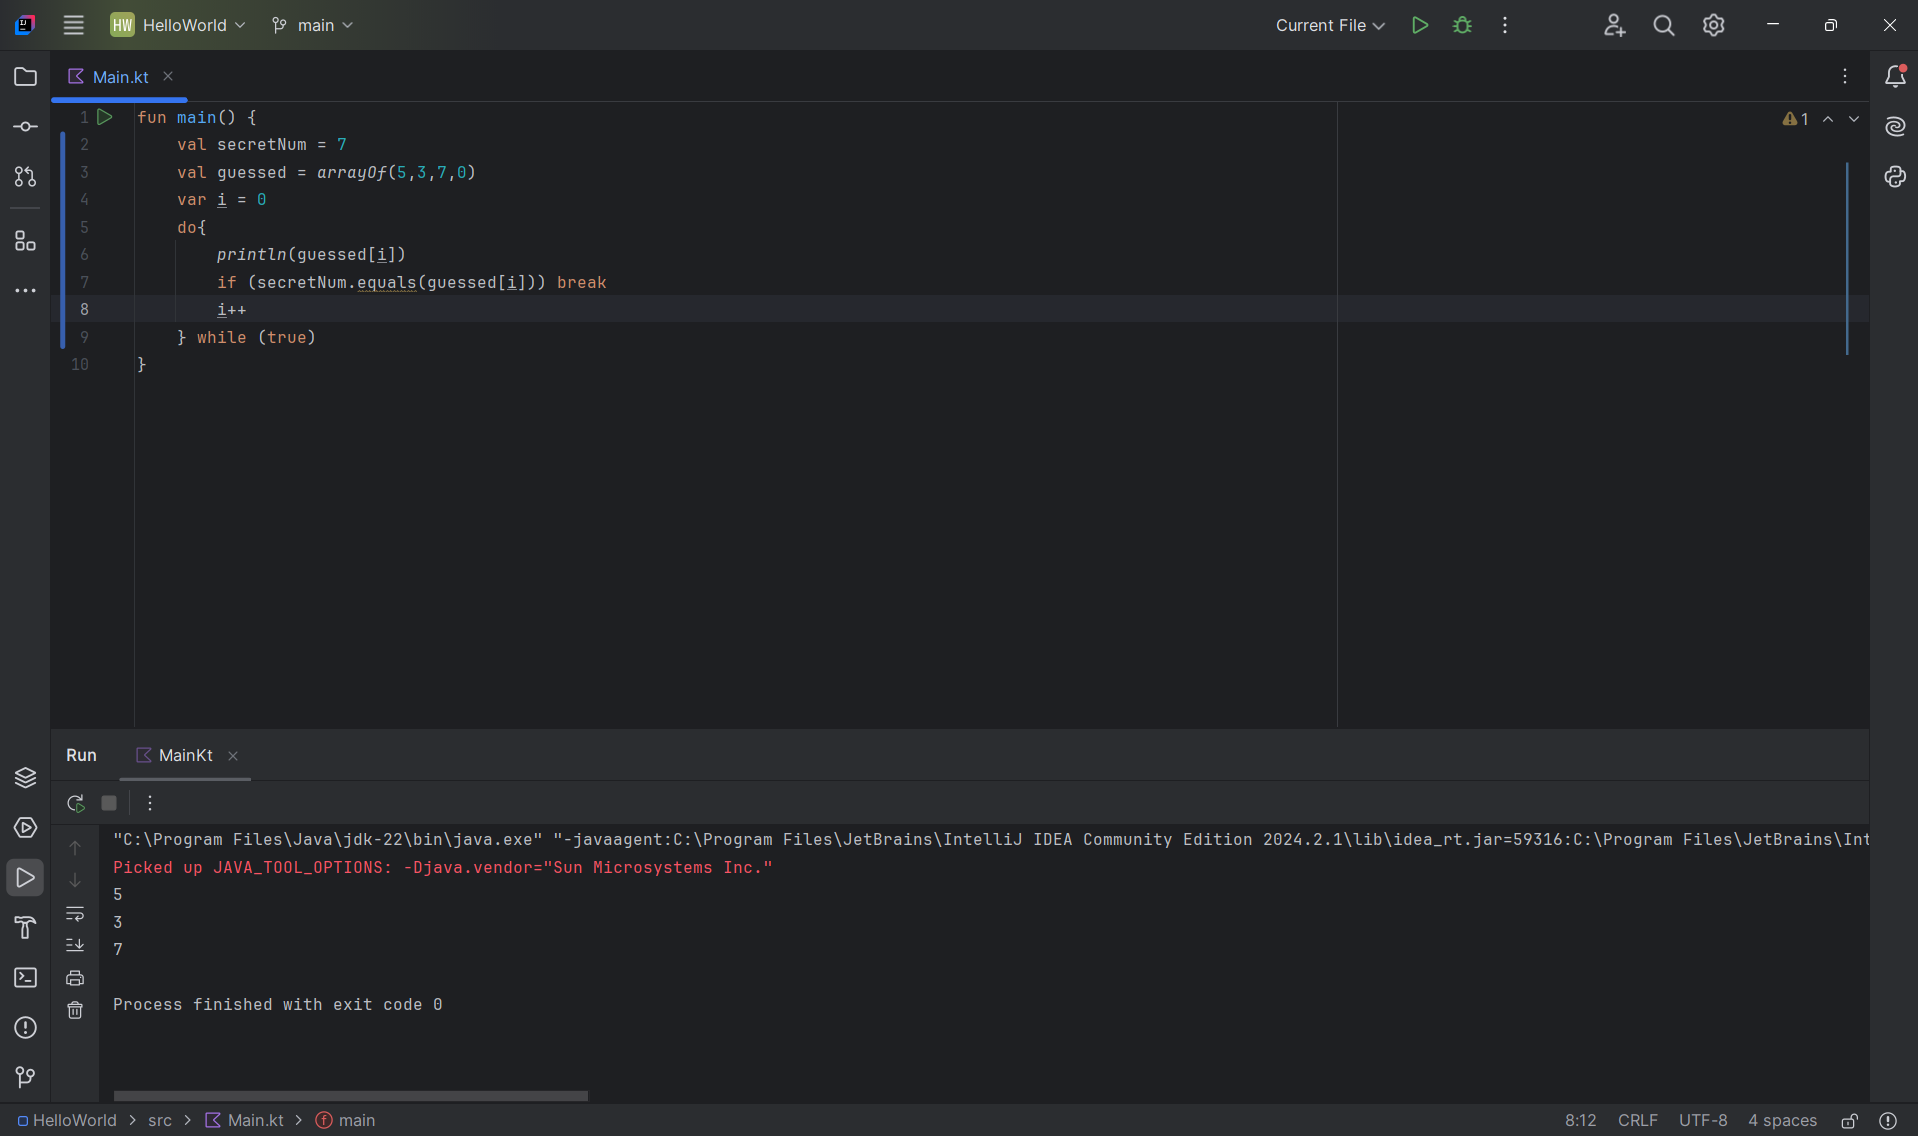
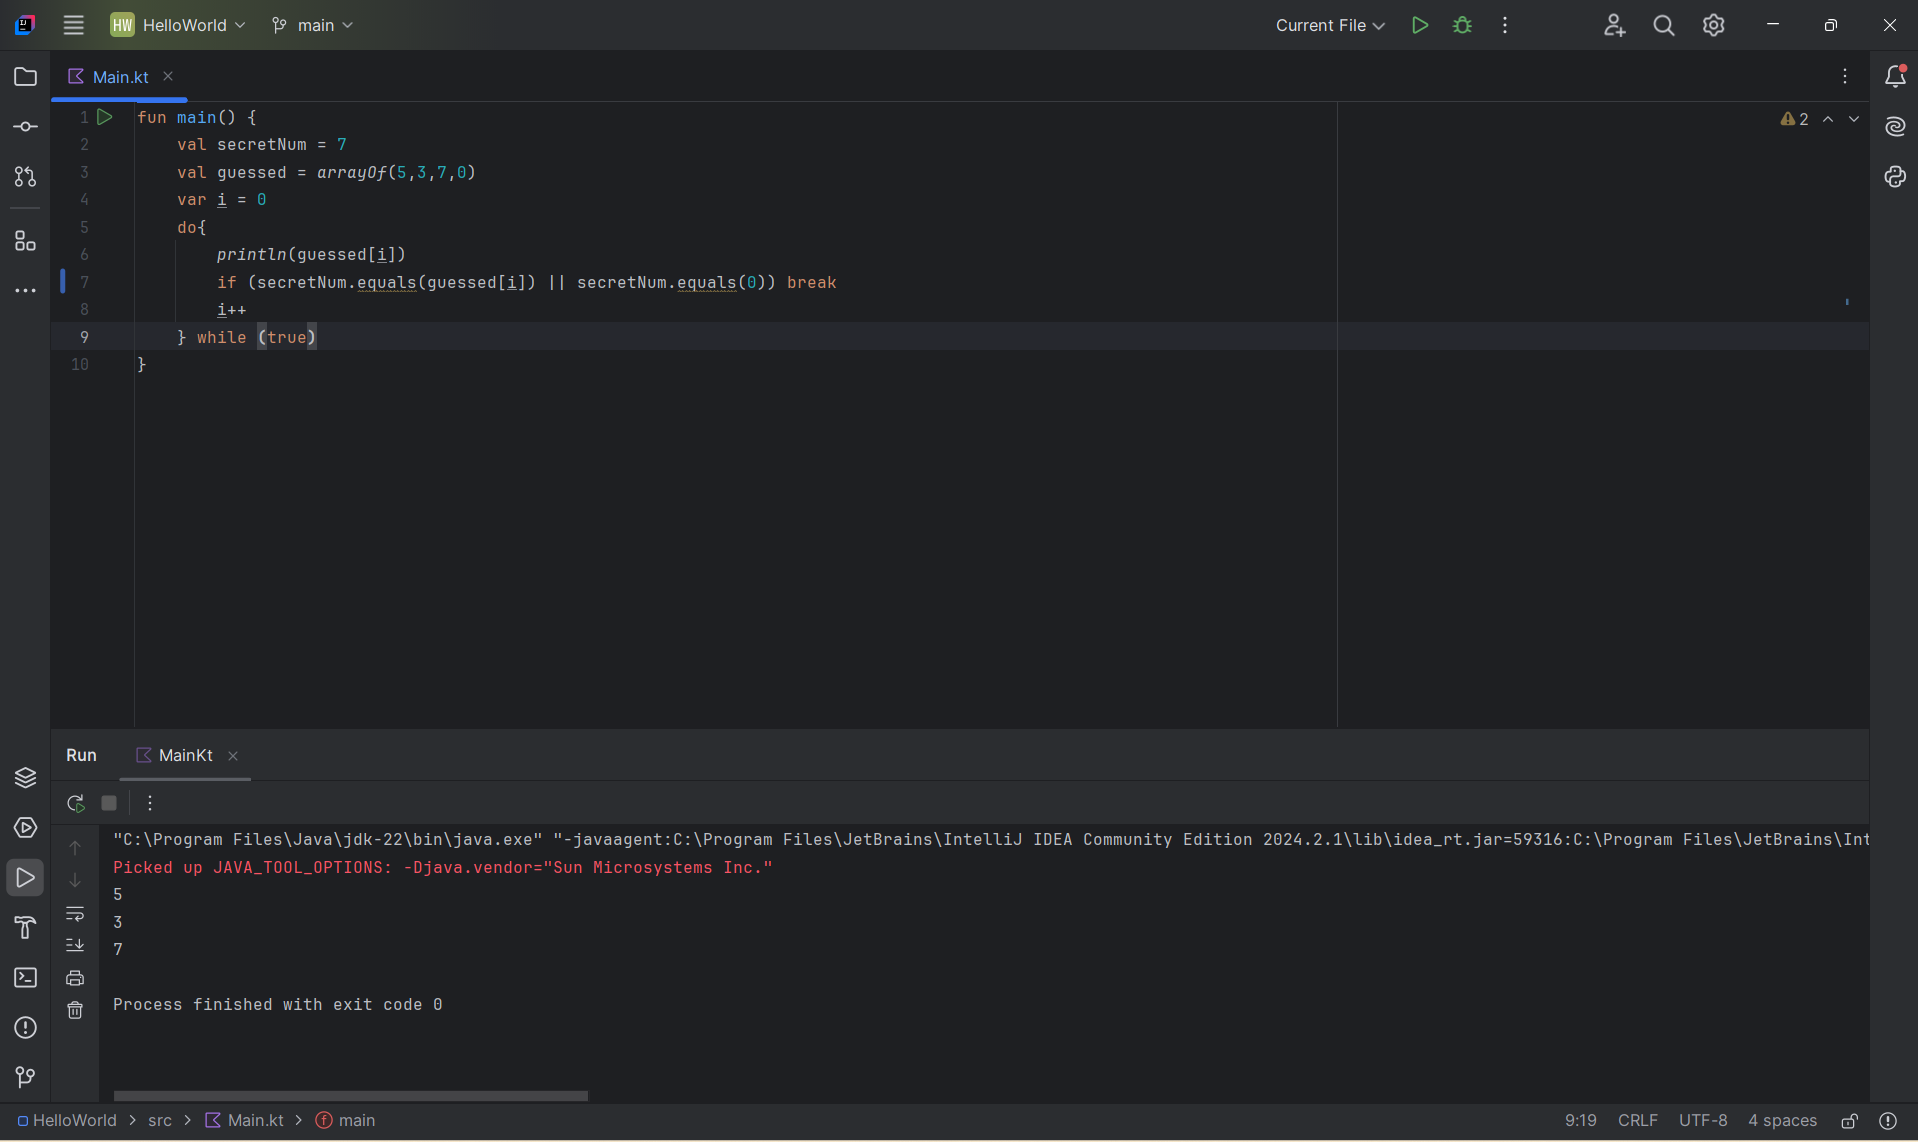
story-5 fix

diff --git a/exercise/day-1/HelloWorld/src/Main.kt b/exercise/day-1/HelloWorld/src/Main.kt
@@ -4,7 +4,7 @@ fun main() {
     var i = 0
     do{
         println(guessed[i])
-        if (secretNum.equals(guessed[i])) break
+        if (secretNum.equals(guessed[i]) || secretNum.equals(0)) break
         i++
     } while (true)
 }
